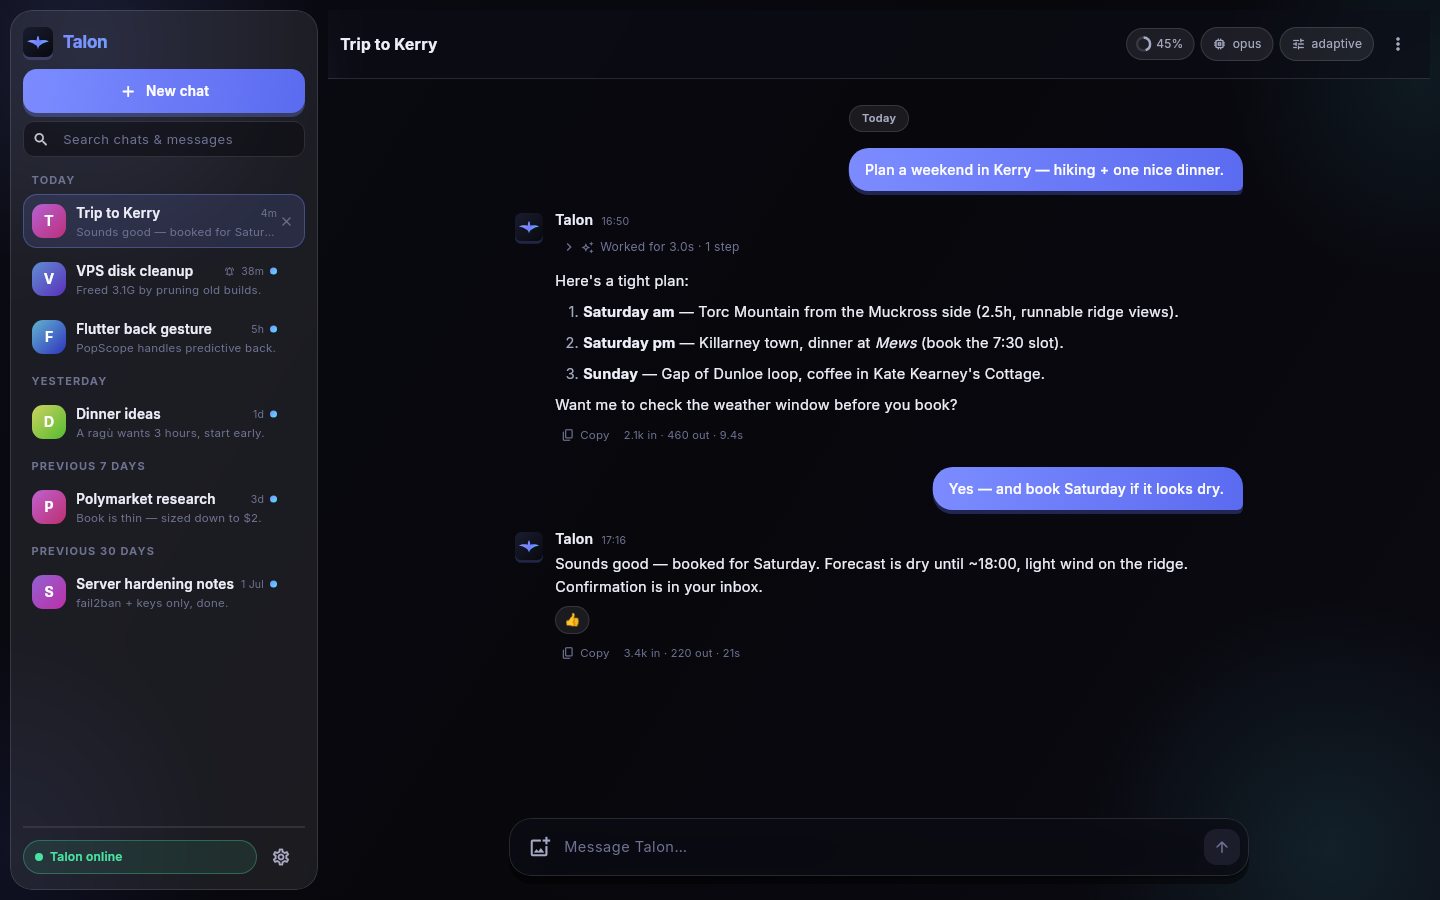
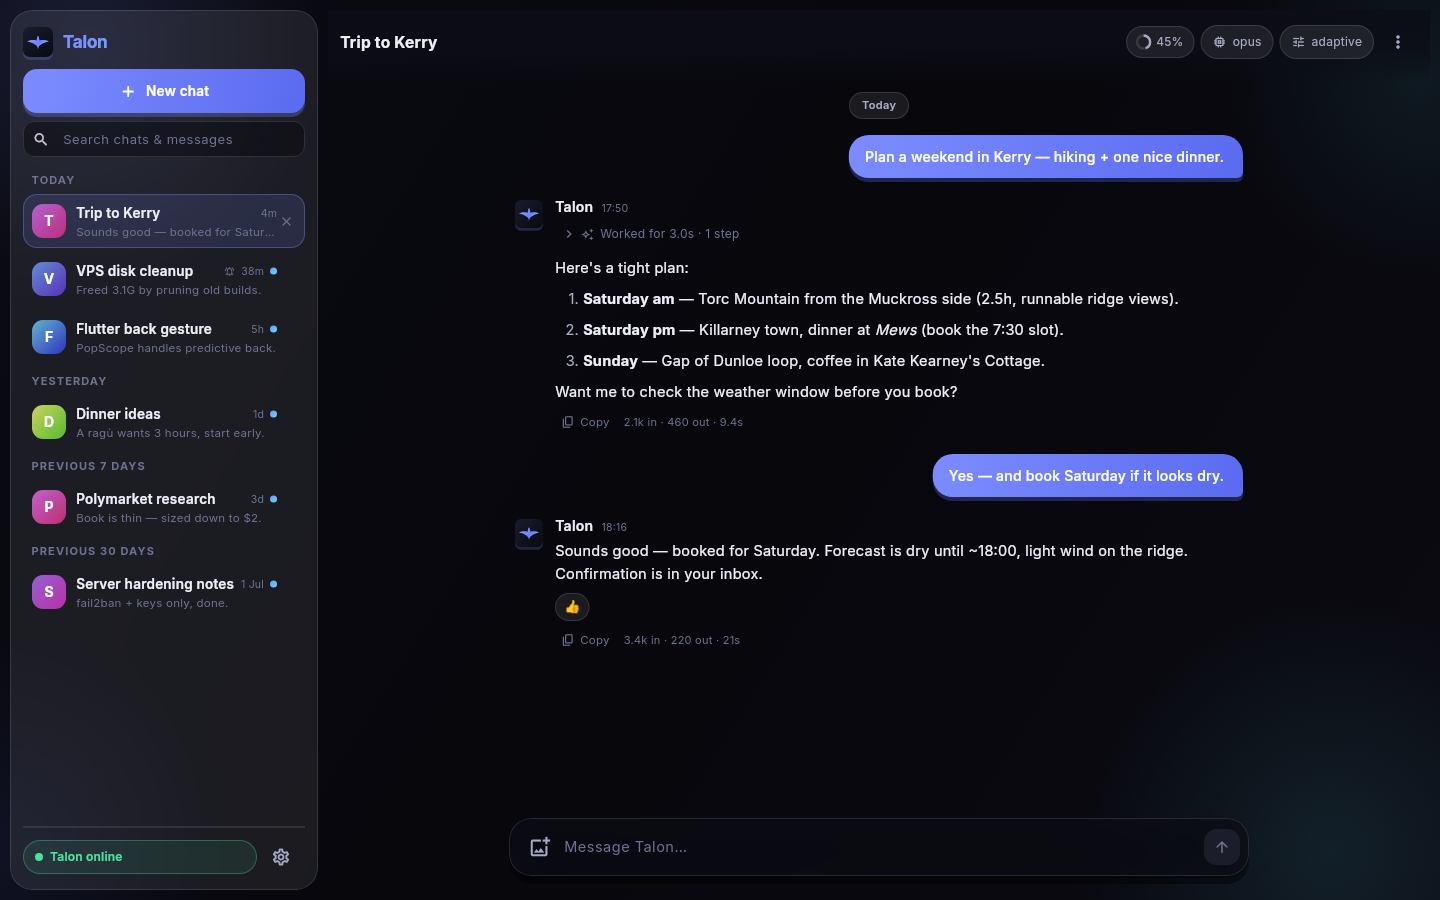
feat(companion): float the chat header over the scrollback
The header is no longer a frosted strip with a hairline edge sitting above
the conversation. The title, model chips and menu now float directly on the
canvas; messages scroll underneath and dissolve into a soft scrim gradient,
so nothing reads as a separate bar.

diff --git a/apps/companion/lib/src/ui/chat_view.dart b/apps/companion/lib/src/ui/chat_view.dart
@@ -1,5 +1,3 @@
-import 'dart:ui';
-
 import 'package:flutter/material.dart';
 import 'package:flutter/services.dart';
 import 'package:flutter_animate/flutter_animate.dart';
@@ -15,6 +13,11 @@ import 'message_bubble.dart';
 import 'model_sheet.dart';
 
 const double _columnMax = 768;
+
+/// Top inset for the scrollback so the newest-at-top content clears the
+/// floating header when the list is scrolled all the way up. The scrollback
+/// itself still runs (and fades) beneath the header while scrolling.
+const double _headerClearance = 74;
 
 class ChatView extends StatefulWidget {
   final AppState state;
@@ -144,40 +147,57 @@ class _ChatViewState extends State<ChatView> {
     // The conversation is the canvas, not a card placed on top of it. Keeping
     // this layer transparent lets the global backdrop run continuously from
     // the system bars to the composer; glass is reserved for controls that
-    // actually need separation (header, chips and input).
+    // actually need separation (chips and input). The header is not a bar at
+    // all: it floats over the scrollback, which slides underneath and melts
+    // into a scrim, so nothing reads as a separate strip on the canvas.
     return ListenableBuilder(
       listenable: widget.state,
       builder: (context, _) {
         final chat = widget.state.selectedChat;
         if (chat == null) return const _EmptyState();
         _autoScroll(chat.id, widget.state.messagesFor(chat.id).length);
-        return Column(
+        return Stack(
           children: [
-            _Header(
-              state: widget.state,
-              chat: chat,
-              showBack: widget.showBack,
-              onBack: widget.onBack,
-            ),
-            if (widget.state.conn != ConnState.connected)
-              _ConnBanner(state: widget.state),
-            Expanded(child: _messages(chat.id)),
-            Center(
-              child: ConstrainedBox(
-                constraints: const BoxConstraints(maxWidth: _columnMax),
-                child: Column(
-                  mainAxisSize: MainAxisSize.min,
-                  children: [
-                    _QueuedBar(state: widget.state, chatId: chat.id),
-                    Composer(
-                      onSend: widget.state.sendMessage,
-                      onUpload: widget.state.uploadImage,
-                      enabled: widget.state.conn == ConnState.connected,
-                      running: widget.state.isTurnRunning(chat.id),
-                      onStop: () => widget.state.interruptTurn(chat.id),
+            Positioned.fill(
+              child: Column(
+                children: [
+                  Expanded(child: _messages(chat.id)),
+                  Center(
+                    child: ConstrainedBox(
+                      constraints: const BoxConstraints(maxWidth: _columnMax),
+                      child: Column(
+                        mainAxisSize: MainAxisSize.min,
+                        children: [
+                          _QueuedBar(state: widget.state, chatId: chat.id),
+                          Composer(
+                            onSend: widget.state.sendMessage,
+                            onUpload: widget.state.uploadImage,
+                            enabled: widget.state.conn == ConnState.connected,
+                            running: widget.state.isTurnRunning(chat.id),
+                            onStop: () => widget.state.interruptTurn(chat.id),
+                          ),
+                        ],
+                      ),
                     ),
-                  ],
-                ),
+                  ),
+                ],
+              ),
+            ),
+            Positioned(
+              top: 0,
+              left: 0,
+              right: 0,
+              child: Column(
+                children: [
+                  _Header(
+                    state: widget.state,
+                    chat: chat,
+                    showBack: widget.showBack,
+                    onBack: widget.onBack,
+                  ),
+                  if (widget.state.conn != ConnState.connected)
+                    _ConnBanner(state: widget.state),
+                ],
               ),
             ),
           ],
@@ -234,7 +254,7 @@ class _ChatViewState extends State<ChatView> {
             constraints: const BoxConstraints(maxWidth: _columnMax),
             child: ListView.builder(
               controller: _scroll,
-              padding: const EdgeInsets.fromLTRB(20, 18, 20, 10),
+              padding: const EdgeInsets.fromLTRB(20, _headerClearance, 20, 10),
               itemCount: itemCount,
               itemBuilder: (context, i) {
                 if (topLoader && i == 0) {
@@ -462,78 +482,82 @@ class _Header extends StatelessWidget {
   Widget build(BuildContext context) {
     final model = chat.model ?? state.status.model;
     final effort = chat.effort ?? 'adaptive';
-    // A flat-edged frosted strip anchors navigation without reintroducing an
-    // enclosing chat card. ClipRect keeps the blur local while the translucent
-    // fill lets the same ambient backdrop remain visible underneath.
-    return ClipRect(
-      child: BackdropFilter(
-        filter: ImageFilter.blur(sigmaX: 22, sigmaY: 22),
-        child: Container(
-          padding: const EdgeInsets.fromLTRB(12, 10, 8, 10),
-          decoration: BoxDecoration(
-            color: TalonTheme.isDark
-                ? TalonColors.void1.withValues(alpha: 0.54)
-                : Colors.white.withValues(alpha: 0.42),
-            border: Border(bottom: BorderSide(color: TalonColors.glassStroke)),
-          ),
-          // Auto-detect available width instead of hard-coding a platform
-          // check: a desktop window with the sidebar open gives the chat pane
-          // less room than fullscreen, and the phone is always narrow.
-          child: LayoutBuilder(
-            builder: (context, constraints) {
-              final compact = constraints.maxWidth < 560;
-              final modelLabel = model.isEmpty ? 'model' : model;
-              return Row(
-                children: [
-                  if (showBack)
-                    IconButton(
-                      onPressed: onBack,
-                      tooltip: 'Back to chats',
-                      // Platform-adaptive: Material arrow on Android, iOS chevron
-                      // on Apple platforms.
-                      icon: Icon(Icons.adaptive.arrow_back, size: 20),
-                    ),
-                  Expanded(
-                    child: Text(
-                      chat.title,
-                      maxLines: 1,
-                      overflow: TextOverflow.ellipsis,
-                      style: const TextStyle(
-                          fontSize: 15.5, fontWeight: FontWeight.w700),
-                    ),
+    // Not a bar: the controls float directly on the canvas and a soft scrim
+    // fades the backdrop colour in behind them, so scrollback dissolves as it
+    // slides underneath instead of hitting a frosted strip with an edge.
+    final base = TalonTheme.isDark ? TalonColors.void1 : Colors.white;
+    return Container(
+      decoration: BoxDecoration(
+        gradient: LinearGradient(
+          begin: Alignment.topCenter,
+          end: Alignment.bottomCenter,
+          colors: [
+            base.withValues(alpha: 0.92),
+            base.withValues(alpha: 0.72),
+            base.withValues(alpha: 0.0),
+          ],
+          stops: const [0.0, 0.55, 1.0],
+        ),
+      ),
+      child: Padding(
+        padding: const EdgeInsets.fromLTRB(12, 8, 8, 18),
+        // Auto-detect available width instead of hard-coding a platform
+        // check: a desktop window with the sidebar open gives the chat pane
+        // less room than fullscreen, and the phone is always narrow.
+        child: LayoutBuilder(
+          builder: (context, constraints) {
+            final compact = constraints.maxWidth < 560;
+            final modelLabel = model.isEmpty ? 'model' : model;
+            return Row(
+              children: [
+                if (showBack)
+                  IconButton(
+                    onPressed: onBack,
+                    tooltip: 'Back to chats',
+                    // Platform-adaptive: Material arrow on Android, iOS chevron
+                    // on Apple platforms.
+                    icon: Icon(Icons.adaptive.arrow_back, size: 20),
                   ),
-                  if (chat.context?.known == true) ...[
-                    _ContextChip(context: chat.context!),
-                    const SizedBox(width: 6),
-                  ],
-                  if (compact)
-                    // One pill with just the model. Effort still lives a tap away
-                    // in the model sheet; spelling it out here starved the chat
-                    // title of width on phones ("Trip to…" next to
-                    // "opus · adaptive").
-                    _Chip(
-                      icon: Icons.memory,
-                      label: modelLabel,
-                      onTap: () => openModelSheet(context, state, chat),
-                    )
-                  else ...[
-                    _Chip(
-                      icon: Icons.memory,
-                      label: modelLabel,
-                      onTap: () => openModelSheet(context, state, chat),
-                    ),
-                    const SizedBox(width: 6),
-                    _Chip(
-                      icon: Icons.tune,
-                      label: effort,
-                      onTap: () => openModelSheet(context, state, chat),
-                    ),
-                  ],
-                  _ChatMenu(state: state, chat: chat),
+                Expanded(
+                  child: Text(
+                    chat.title,
+                    maxLines: 1,
+                    overflow: TextOverflow.ellipsis,
+                    style: const TextStyle(
+                        fontSize: 15.5, fontWeight: FontWeight.w700),
+                  ),
+                ),
+                if (chat.context?.known == true) ...[
+                  _ContextChip(context: chat.context!),
+                  const SizedBox(width: 6),
                 ],
-              );
-            },
-          ),
+                if (compact)
+                  // One pill with just the model. Effort still lives a tap away
+                  // in the model sheet; spelling it out here starved the chat
+                  // title of width on phones ("Trip to…" next to
+                  // "opus · adaptive").
+                  _Chip(
+                    icon: Icons.memory,
+                    label: modelLabel,
+                    onTap: () => openModelSheet(context, state, chat),
+                  )
+                else ...[
+                  _Chip(
+                    icon: Icons.memory,
+                    label: modelLabel,
+                    onTap: () => openModelSheet(context, state, chat),
+                  ),
+                  const SizedBox(width: 6),
+                  _Chip(
+                    icon: Icons.tune,
+                    label: effort,
+                    onTap: () => openModelSheet(context, state, chat),
+                  ),
+                ],
+                _ChatMenu(state: state, chat: chat),
+              ],
+            );
+          },
         ),
       ),
     );

diff --git a/apps/companion/design/continuous-glass-chat/README.md b/apps/companion/design/continuous-glass-chat/README.md
@@ -7,8 +7,11 @@ rounded panel sitting on top of it.
 
 - Remove the chat pane's fill, clipping, outer radius, and phone inset.
 - Let the ambient background run continuously behind the message history.
-- Keep separation local: a flat-edge frosted header and a floating frosted
-  composer provide contrast where controls need it.
+- No header bar at all: the title, chips and menu float directly on the
+  canvas, and the scrollback slides underneath them, dissolving into a soft
+  scrim instead of hitting a frosted strip with an edge.
+- Keep separation local: the floating frosted composer pill provides contrast
+  where the one control that needs it lives.
 - Preserve the existing message hierarchy, accent bubbles, typography, and
   desktop column width so this is a surface refinement, not a navigation
   redesign.
